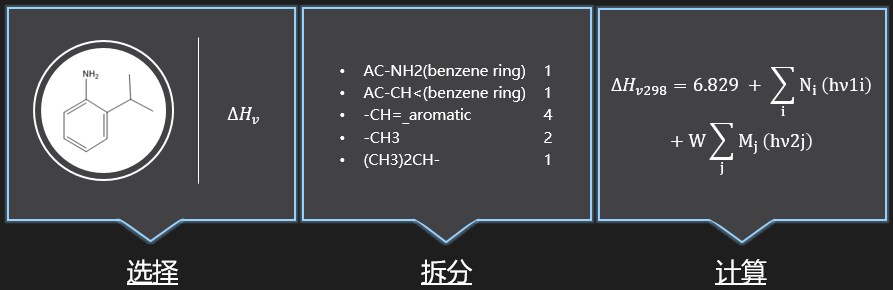
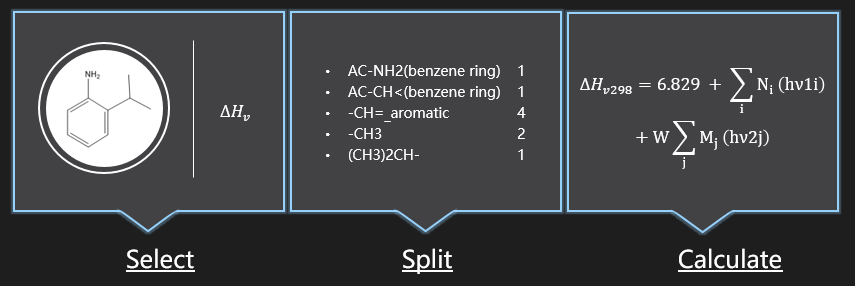
Translate into English

diff --git a/README.md b/README.md
@@ -1,59 +1,60 @@
 # MoleSplit
-本项目是用于在以基团贡献法估算物性时，完成分子拆分任务的程序集，基于C#语言开发。
 
-***
+---
 
-## 1.介绍
+## 0. Description
+This project is used to disassembly of molecular structure for Group Contribution Method, which base on C# language development.
 
-![](https://raw.githubusercontent.com/DingpingZhang/MoleSplit/master/images/GroupContributionMethodProcess.png)
+## 1. Introduction
 
-使用基团贡献法进行物性估算，通常可以分为三个步骤：
+![](/images/GroupContributionMethodProcess.png)
 
-1. 选择：确定需要估算的化合物及物性；（一些物性的估算可能还涉及其它参数的确定，如温度、压力等）
-2. 拆分：根据需要估算的物性，选择适当的基团贡献法，并按该方法的定义基团对分子进行拆分，得到估算所需的基团数目列表；
-3. 计算：将上述步骤中的数据带入相应的计算公式，完成物性估算。
+When we use the group contribution method to estimate the physical properties, there are usually the following three steps:
 
-本程序集用于完成上述步骤2的任务：以指定基团贡献法拆分指定的化合物。
+1. **Select**: Determine the compounds and physical properties that need to be estimated. (and other parameters, e.g.: T, p etc.)
+2. **Split**: According to estimates of the required properties, select the appropriate group contribution method, and the molecular are split, base on the definition of the method, to obtain the list that contain corresponding number of group.
+3. **Calculate**: The data in the above steps into the corresponding formula, complete property estimation.
 
-## 2.程序集的调用
-### 2.1 一般使用
+This assembly is used to complete the step 2: split the specified compound with the specified group contribution method.
 
+## 2. Invoke the assembly
+### 2.1 For general group
 
-    using MoleSplit;
+```
+using MoleSplit;
 
-    namespace Tutorial
-    {
-        class Program
+namespace Tutorial
+{
+     class Program
+     {
+         static void Main(string[] args)
         {
-            static void Main(string[] args)
-            {
-                var moleSplitter = new MoleSplitter(); // 创建一个空的拆分器实例，此时该实例不具备拆分能力
-                moleSplitter.LoadDefineFile(@"MSDFile.mdef"); // 加载分子拆分定义文件，此步骤将使该实例获得指定基团贡献法（由加载文件决定）的拆分能力
-                moleSplitter.LoadMolFile(@"molFile.mol"); // 加载指定分子的mol文件
-                moleSplitter.Parse(); // 进行结构解析
-                Dictionary<string, int> result = moleSplitter.DefinedFragment; // 获取拆分结果
-                Dictionary<string, int> otherFragment = moleSplitter.UndefineFragment; // 获取拆分结束过，分子中剩余的片段，此集合元素个数若不为0，将意味着拆分失败。（该方法不适用与改分子）
-            }
+            var moleSplitter = new MoleSplitter();
+            moleSplitter.LoadDefineFile(@"MSDFile.mdef");
+            moleSplitter.LoadMolFile(@"molFile.mol");
+            Dictionary<string, int> result = moleSplitter.DefinedFragment;
+            Dictionary<string, int> otherFragment = moleSplitter.UndefineFragment;
         }
     }
+}
+```
 
+### 2.2 For Special group
+Special groups are groups that are outside the scope of the identification of all the methods provided in this assembly (namespace MoleSplit.Core). So, it provides an event named ***SplitEnd*** in the ***MoleSplitter*** class, which accepts the delegate of the ***MoleSplit.SplitEndEventHandler*** type.
 
-### 2.2 针对含有特殊基团的基团贡献法
-特殊基团是指所有在本程序集（SplitCore中提供的方法）识别范围之外的基团。在MoleSplitter类中提供了名为SplitEnd的事件，该事件接受MoleSplit.SplitEndEventHandler类型的委托。
+![](/images/MoleSplitter.png)
 
-![](https://raw.githubusercontent.com/DingpingZhang/MoleSplit/master/images/MoleSplitter.png)
+```
+MoleSplit.SplitEndEventHandler additionalSplitOperation = new SplitEndEventHandler((splitResultArgs) =>
+{
+    // The custom code.
+});
+```
 
+***SplitEndEventHandler*** accepts the parameters of the ***MoleSplit.SplitEndEventArgs*** type, which contains the following three properties:
 
-    MoleSplit.SplitEndEventHandler additionalSplitOperation = new SplitEndEventHandler((splitResultArgs) =>
-    {
-        // Do something.
-    });
+![](/images/SplitEndEventArgs.png)
 
+The ***MoleInfo*** type contains information about the molecules being split.
 
-SplitEndEventHandler委托中接受的参数为MoleSplit.SplitEndEventArgs类型，其中含有三个属性。
-
-![](https://raw.githubusercontent.com/DingpingZhang/MoleSplit/master/images/SplitEndEventArgs.png)
-
-其中MoleInfo类型的属性中包含了正在进行拆分的分子的相关信息。
-
-![](https://raw.githubusercontent.com/DingpingZhang/MoleSplit/master/images/MoleInfo.png)
+![](/images/MoleInfo.png)

diff --git a/Syntax Specification.md b/Syntax Specification.md
@@ -19,12 +19,12 @@ Definition information
 - 不计分子中的H原子；
 - 编码结构为：元素符号 + 化学键列表（1 – 单键、2 – 双键……以此类推）；
 - 化学键列表中的化学键按键数从大到小的顺序排列。
-![](https://raw.githubusercontent.com/DingpingZhang/MoleSplit/master/images/AtomicCode.png)
+![](/images/AtomicCode.png)
 
 ## 3.解析器
 ### 3.1Radical解析功能
 Radical是所有解析标签中最强大的一个，以基团-CON(CH3)2为例，如图5-3所示，图中灰色框中的内容为该基团在定义未见中的定义编码，其由三部分组成：基团签名、原子编码列表和基团邻接矩阵；图片描述了从基团结构图转化为定义编码的过程。
-![](https://raw.githubusercontent.com/DingpingZhang/MoleSplit/master/images/RadicalCode.png)
+![](/images/RadicalCode.png)
 
 #### 3.1.1基团签名
 基团签名可以包含的信息有：基团名称、辅助定位原子索引列表和三种标记：部分屏蔽、属性标记、编码重写标记。其书写位置位于整个基团定义编码的第一行。
